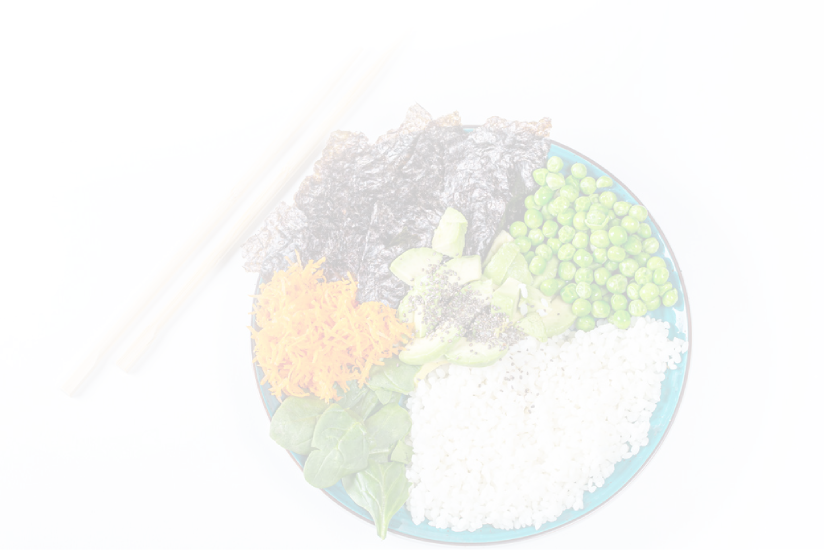
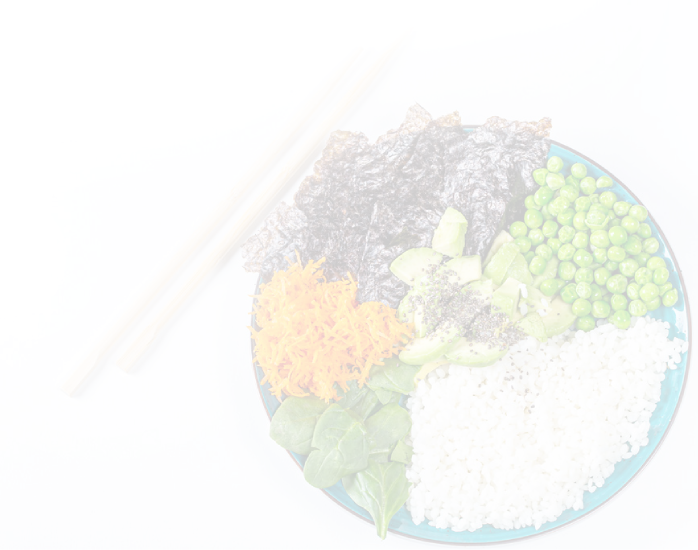
Styles for products section

Changed region(s): [[0.3009, 0.1855, 0.9928, 1.0]]

diff --git a/src/scss/layout/_products.scss b/src/scss/layout/_products.scss
@@ -1,0 +1,29 @@
+.products {
+  padding-top: 100px;
+  padding-bottom: 80px;
+  background: url("/assets/img/products.png") no-repeat;
+  background-color: #fafafa;
+  background-position: right -180px bottom -320px;
+
+  @media (min-width: $screen-lg) {
+    padding-bottom: 220px;
+    background-position: right -130px bottom -60px;
+  }
+}
+
+.products__title {
+  margin-bottom: 40px;
+  color: #401710;
+  font-family: "Open Sans", sans-serif;
+  font-size: 24px;
+  font-weight: 700;
+  text-align: center;
+}
+
+.products__selector {
+  margin-bottom: 5rem;
+
+  @media (min-width: $screen-lg) {
+    margin-bottom: 6rem;
+  }
+}

diff --git a/src/scss/main.scss b/src/scss/main.scss
@@ -4,13 +4,19 @@
 
 @import "abstracts/variables";
 
+// @import "vendors/swiper";
+
 @import "base/reset";
 @import "base/base";
 
+@import "layout/grid";
 @import "layout/header";
+@import "layout/products";
 
+// @import "components/assortment";
 @import "components/button";
 @import "components/headline";
 @import "components/logo";
 @import "components/menu";
 @import "components/search";
+// @import "components/selector";

diff --git a/src/scss/layout/_grid.scss b/src/scss/layout/_grid.scss
@@ -1,0 +1,1 @@
+@import "~bootstrap/scss/bootstrap-grid";
